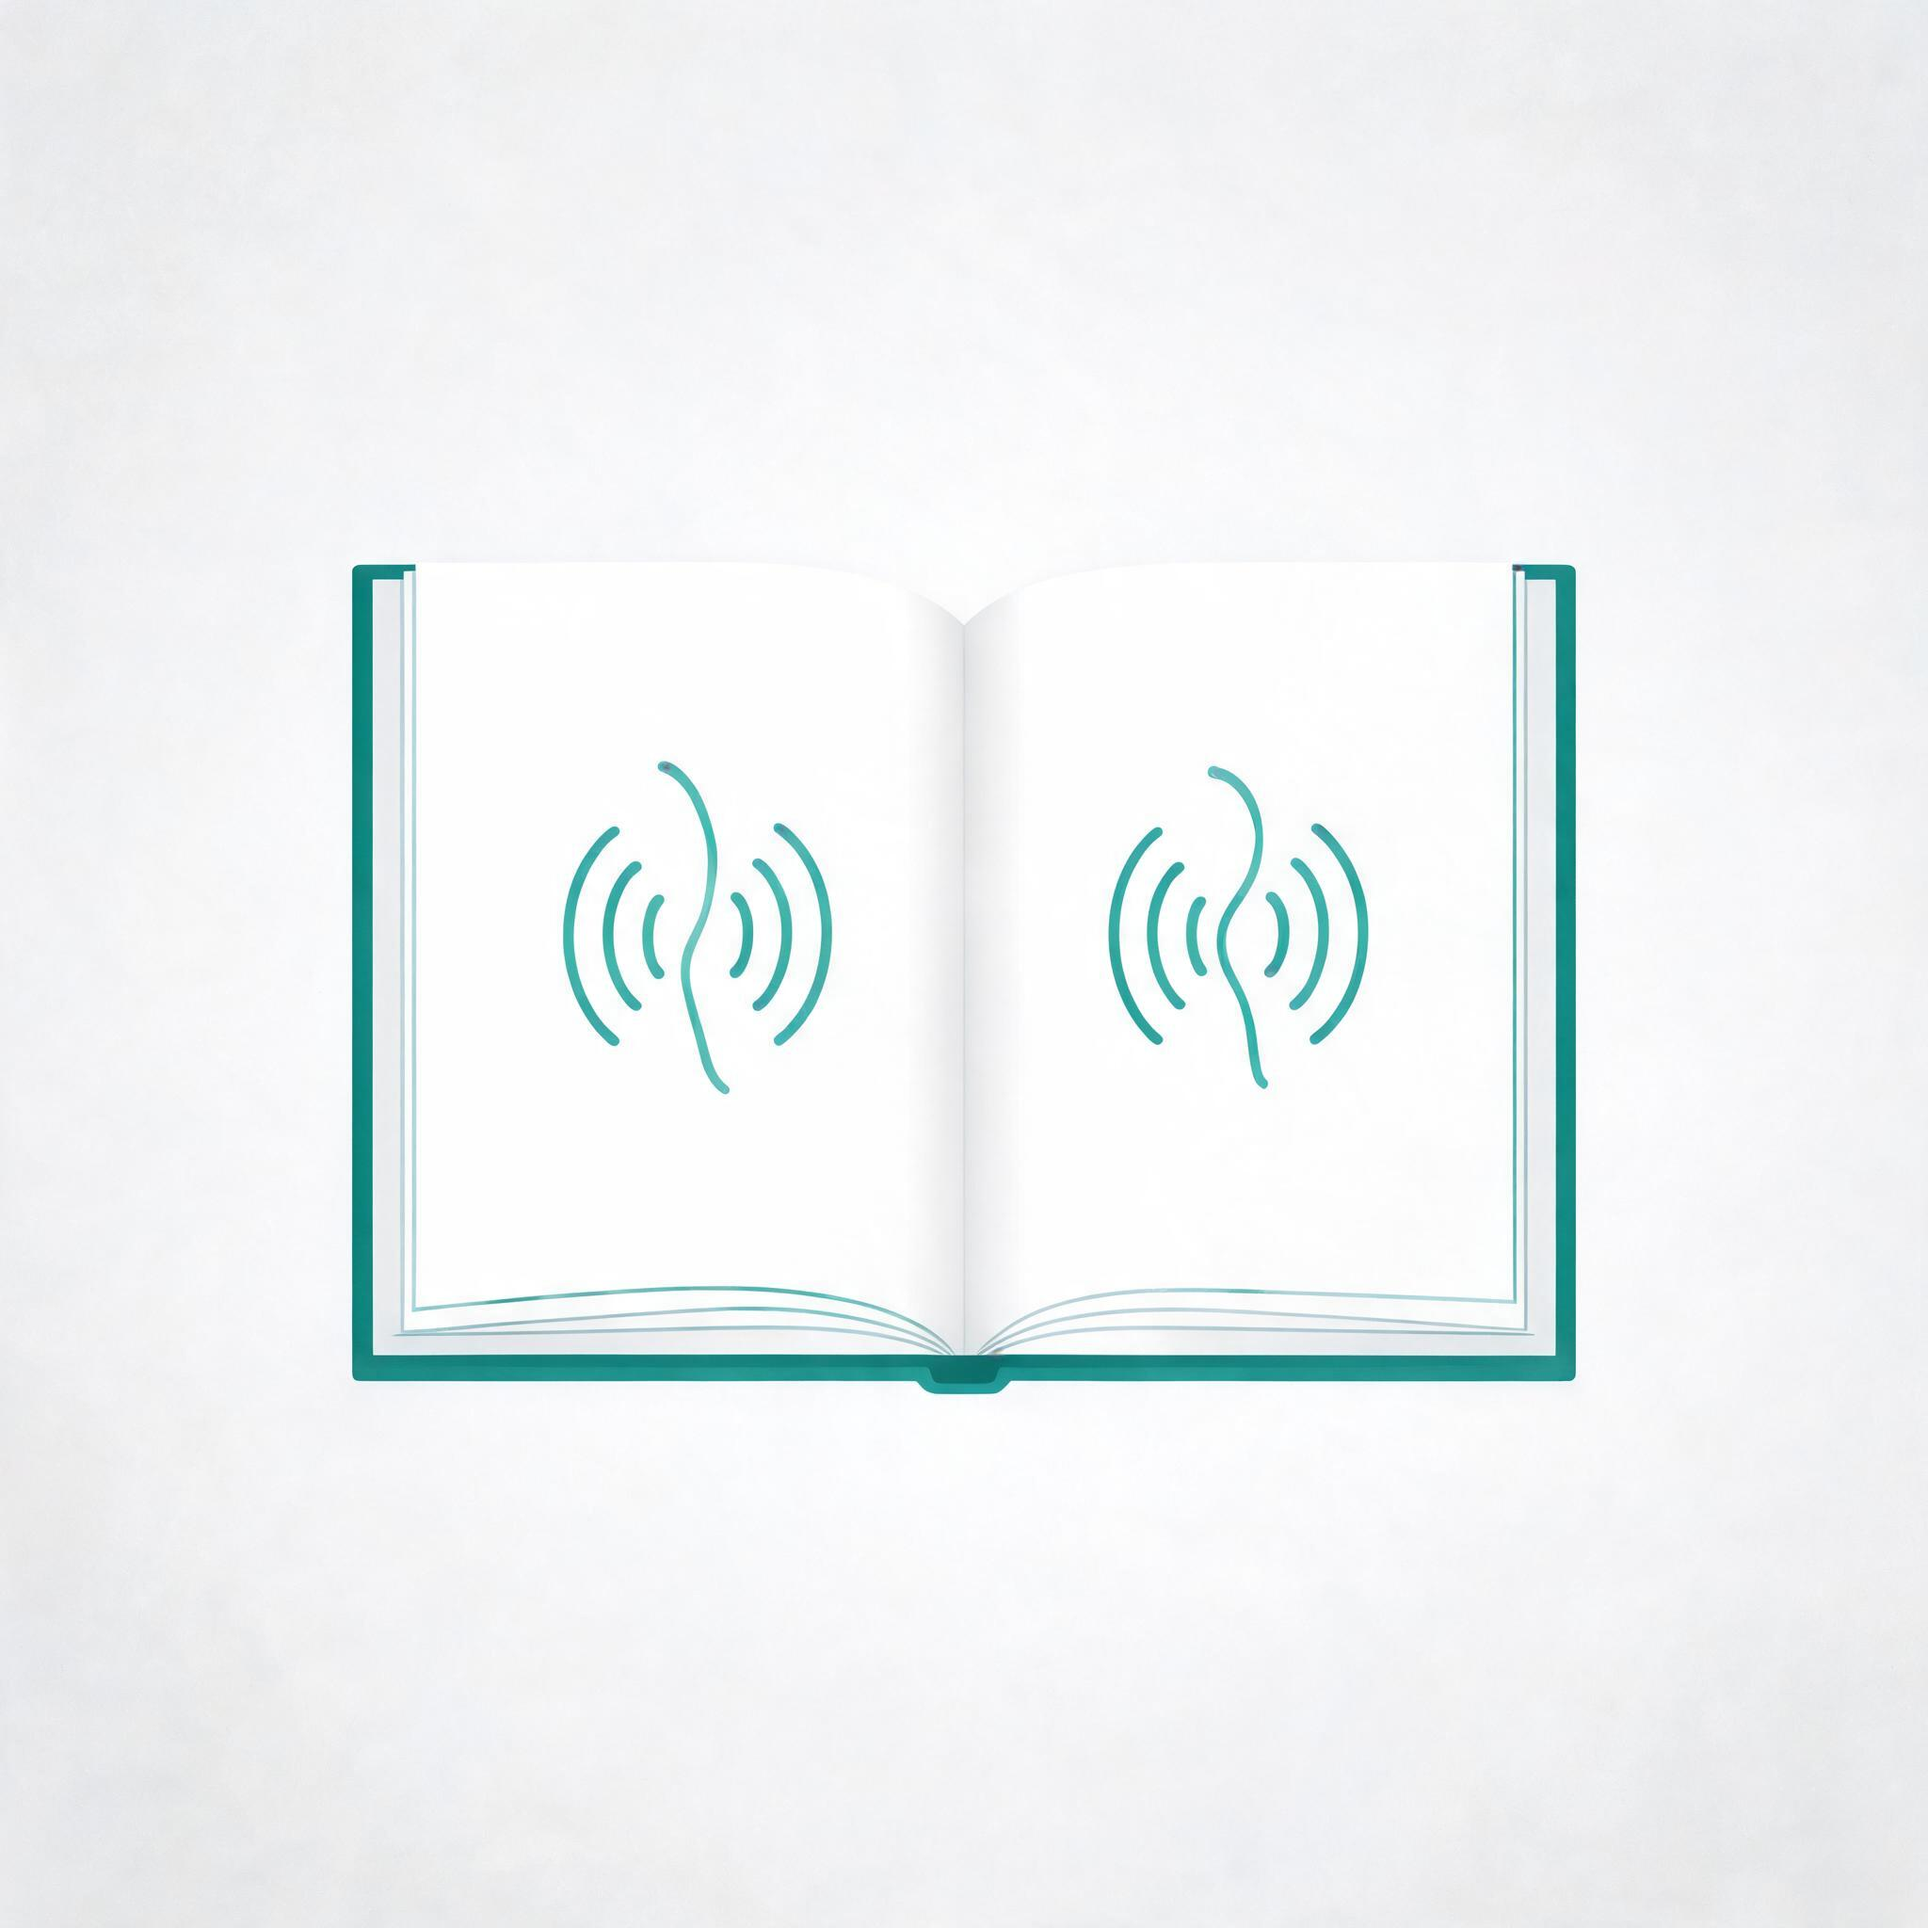
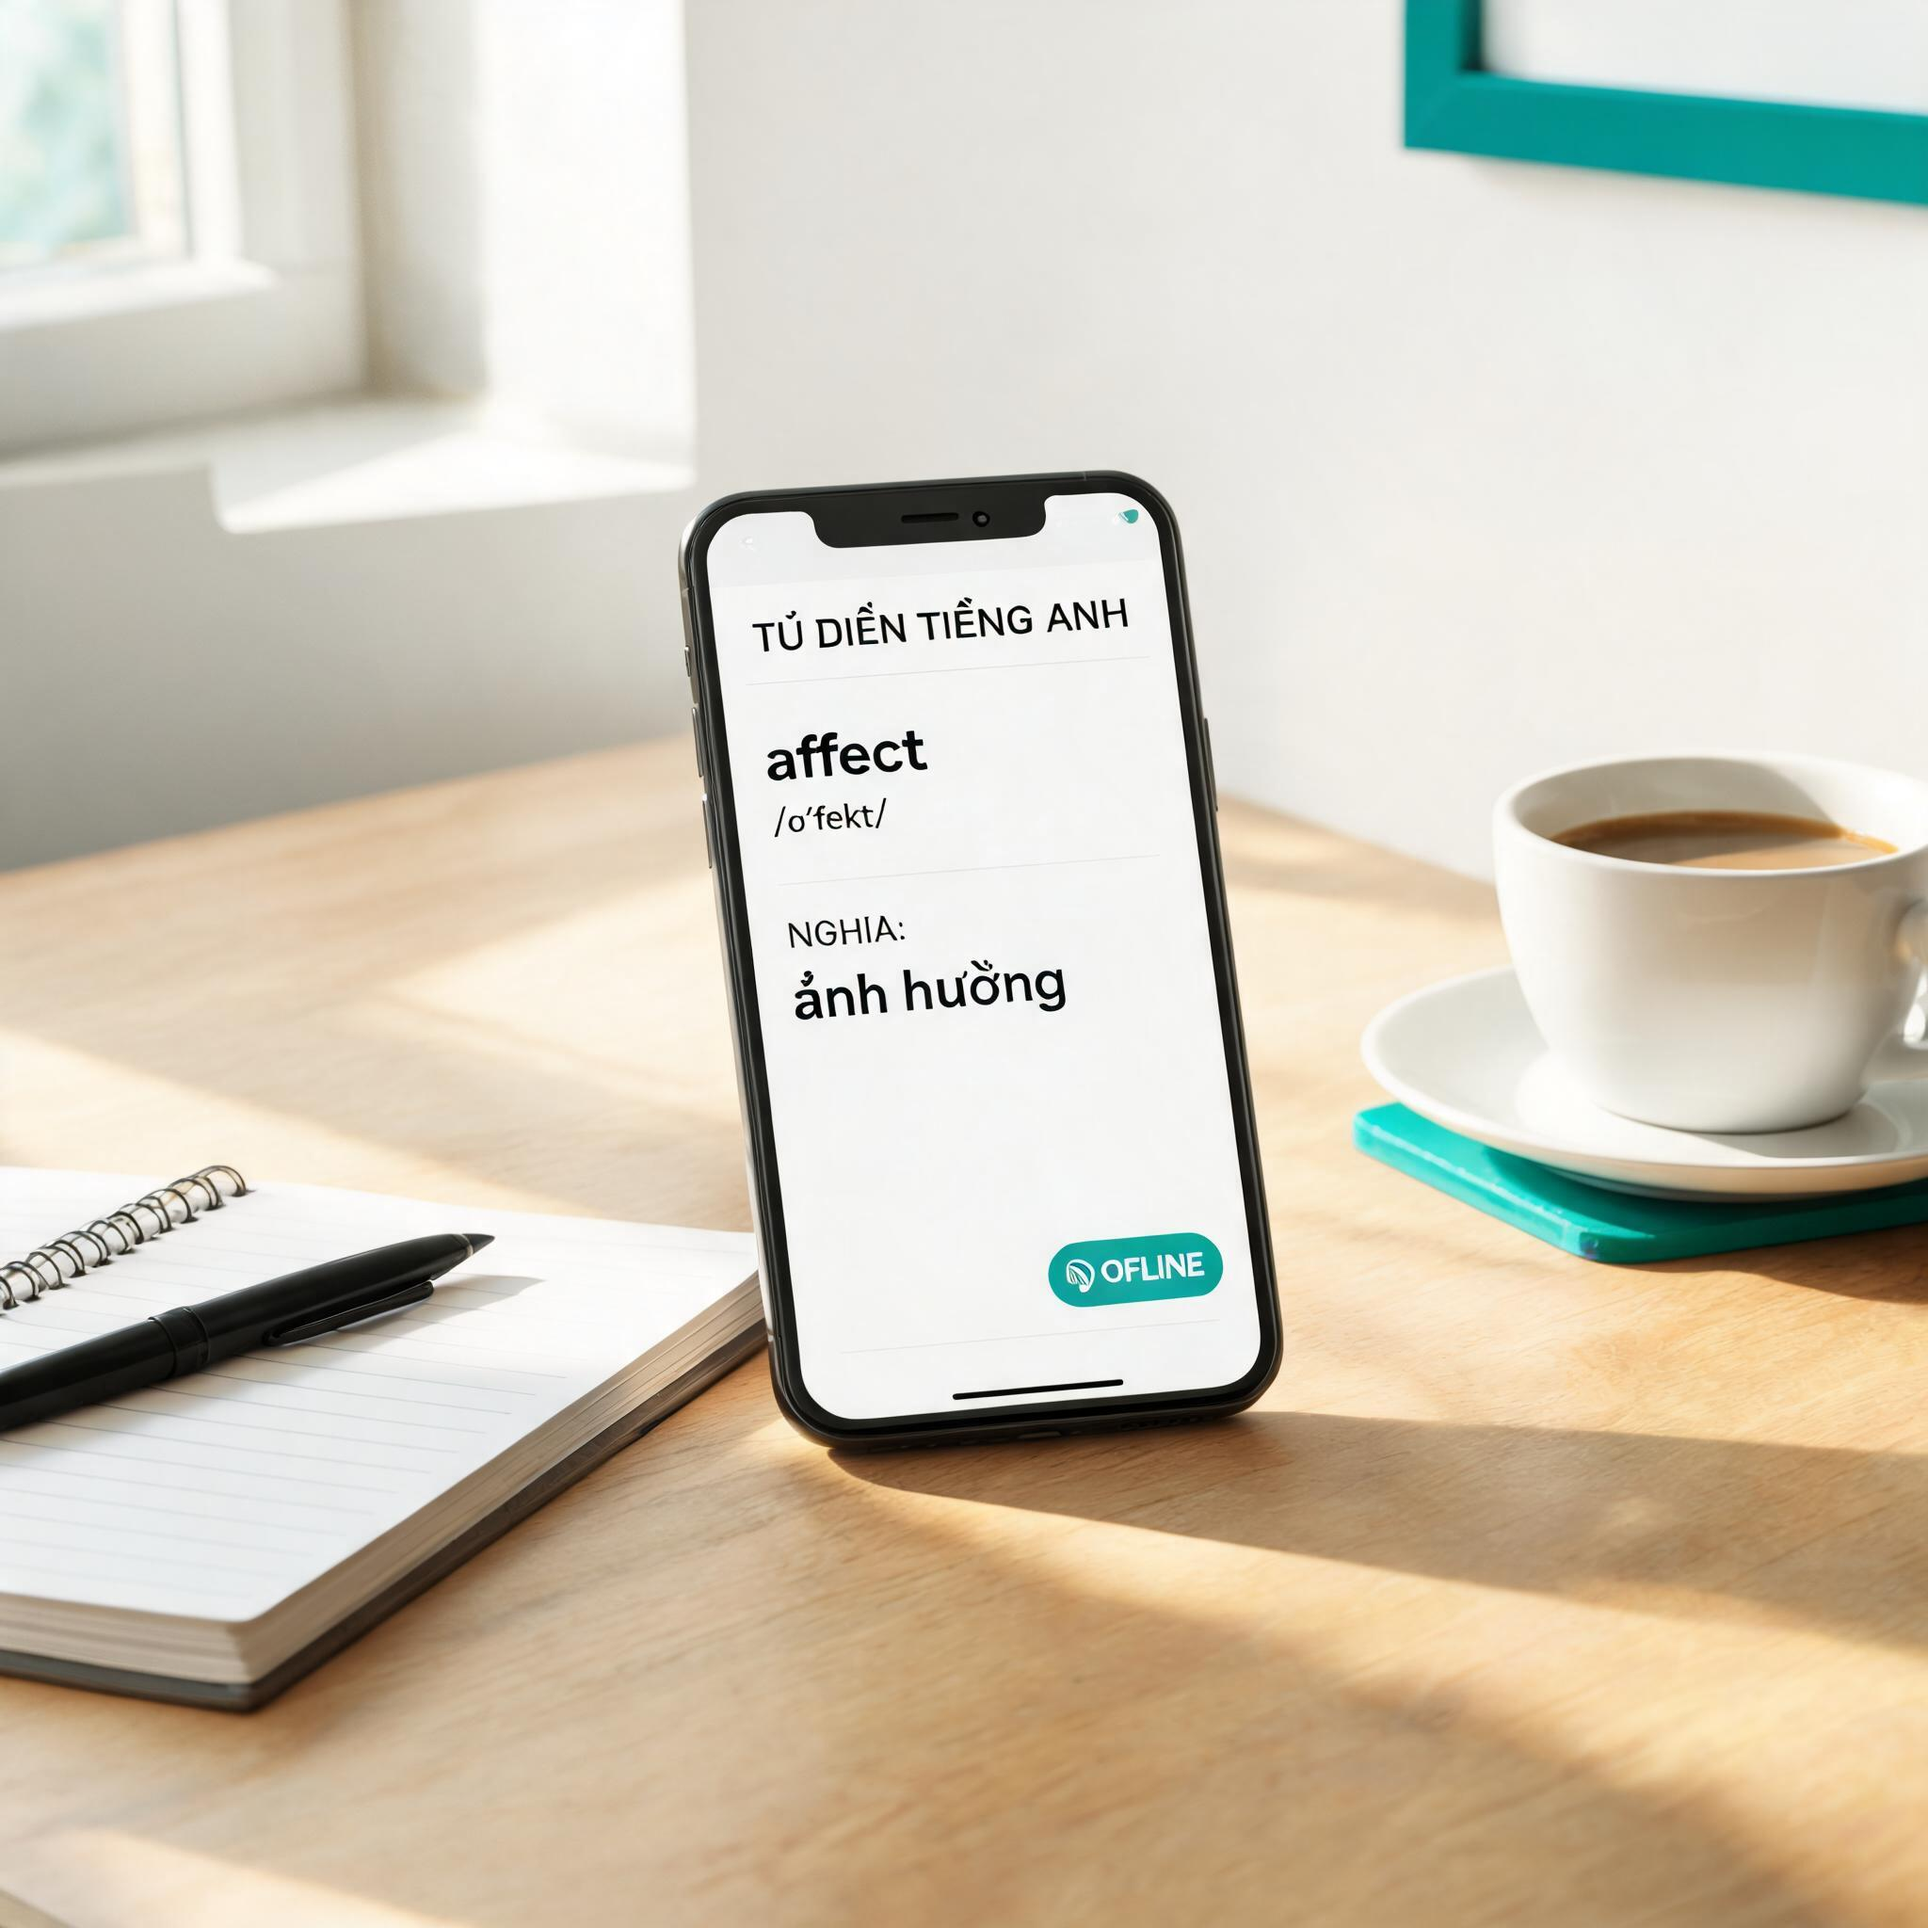
Image fix: hero cu the phone mockup /affect offline + mouth /θ/ mat cat cu the (thè lưỡi giữa răng, thổi hơi) — theo feedback trừu tượng

diff --git a/vi/phat-am/think/index.html b/vi/phat-am/think/index.html
@@ -58,9 +58,10 @@
     <button type="button" class="ipa-play" data-aud="/audio/us/think.m4a" aria-label="Nghe giọng Mỹ">🔊 Mỹ</button>
     <button type="button" class="ipa-play" data-aud="/audio/gb/think.m4a" aria-label="Nghe giọng Anh">🔊 Anh</button>
   </div>
-  <div style="margin:16px 0;background:#f9fafb;border:1px solid #e5e7eb;border-radius:12px;padding:16px;display:flex;gap:16px;align-items:center">
-      <div style="width:160px;flex-shrink:0"><svg width="160" height="110" viewBox="0 0 160 110" aria-labelledby="mouth-title" role="img"><title id="mouth-title">Sơ đồ miệng /θ/ — lưỡi giữa hai răng</title><ellipse cx="80" cy="55" rx="62" ry="46" fill="none" stroke="#e5e7eb" stroke-width="1.6"/><path d="M 50 70 Q 80 26 110 70" fill="none" stroke="#0f766e" stroke-width="2.6" stroke-linecap="round"/><circle cx="62" cy="66" r="3.5" fill="#0f766e"/><circle cx="98" cy="66" r="3.5" fill="#0f766e"/><path d="M 68 86 Q 80 94 92 86" fill="none" stroke="#6b7280" stroke-width="1.6" stroke-linecap="round"/><text x="80" y="18" text-anchor="middle" font-size="8" fill="#9ca3af" font-family="sans-serif">lưỡi chạm răng</text><text x="80" y="104" text-anchor="middle" font-size="7" fill="#9ca3af">SVG · không phụ thuộc mạng</text></svg></div>
-      <div style="flex:1"><div style="font-size:11px;font-weight:700;color:#0f766e;letter-spacing:0.06em">MẸO NHỚ · /θ/</div><div style="font-size:13px;color:#111110;margin-top:6px;line-height:1.5">Thè lưỡi nhẹ giữa răng, thổi hơi — không bật tiếng. Ngược với /t/ (đầu lưỡi chạm nướu).</div><div style="margin-top:8px;display:flex;gap:6px;flex-wrap:wrap"><span style="background:#fef2f2;color:#991b1b;font-size:10px;padding:4px 8px;border-radius:6px">✗ Đừng đọc /tɪŋk/</span><span style="background:#ecfdf5;color:#065f46;font-size:10px;padding:4px 8px;border-radius:6px">✓ think /θɪŋk/</span></div></div>
+  <figure style="margin:16px 0;background:#ffffff;border:1px solid #e5e7eb;border-radius:12px;overflow:hidden">
+      <img src="/vi/phat-am/think/mouth-th.jpg" srcset="/vi/phat-am/think/mouth-th-480.webp 480w" sizes="(max-width: 640px) 100vw, 480px" alt="Mặt cắt miệng phát âm /θ/ think — lưỡi thè nhẹ giữa hai răng, thổi hơi" width="480" height="480" loading="lazy" decoding="async" style="width:100%;height:auto;display:block">
+      <figcaption style="padding:10px 14px;background:#f9fafb;border-top:1px solid #e5e7eb;font-size:12px;color:#6b7280;line-height:1.6"><strong style="color:#0f766e">Cách làm:</strong> 1) Thè đầu lưỡi chạm nhẹ giữa răng trên & dưới → 2) Thổi hơi qua khe → 3) Không rung dây thanh. <span style="background:#fef2f2;color:#991b1b;padding:2px 6px;border-radius:4px;margin-left:6px">✗ Sai: /tɪŋk/ (lưỡi chạm nướu)</span> <span style="background:#ecfdf5;color:#065f46;padding:2px 6px;border-radius:4px">✓ Đúng: /θɪŋk/</span></figcaption>
+    </figure>
     </div>
   <audio id="ipa-player" preload="none"></audio>
   <script>(function(){var pl=document.getElementById('ipa-player');if(!pl)return;document.querySelectorAll('.ipa-play').forEach(function(b){b.addEventListener('click',function(){pl.src=b.getAttribute('data-aud');pl.play();});});})();</script>

diff --git a/vi/index.html b/vi/index.html
@@ -109,7 +109,7 @@
       <a class="btn-primary" href="/" style="text-decoration:none">🚀 Mở từ điển ngay</a>
       <a class="btn-secondary" href="/#about" style="text-decoration:none">Tính năng chi tiết</a>
     </div>
-    <figure style="margin:var(--sp-4) auto 0;max-width:640px"><img src="/vi/images/hero-vi.jpg" alt="Giao diện Dual Dictionary tra từ offline trên điện thoại và laptop" width="640" height="360" fetchpriority="high" decoding="async" style="width:100%;height:auto;border-radius:12px;border:1px solid var(--border);box-shadow:0 8px 24px rgba(0,0,0,0.08)"><figcaption style="font-size:12px;color:var(--text-2);margin-top:8px">Offline-first · PWA cài lên màn hình chính · Không quảng cáo</figcaption></figure>
+    <figure style="margin:var(--sp-4) auto 0;max-width:640px"><img src="/vi/images/hero-vi.jpg" alt="Giao diện Dual Dictionary tra từ offline trên điện thoại và laptop" width="640" height="640" fetchpriority="high" decoding="async" style="width:100%;height:auto;border-radius:12px;border:1px solid var(--border);box-shadow:0 8px 24px rgba(0,0,0,0.08)"><figcaption style="font-size:12px;color:var(--text-2);margin-top:8px">Offline-first · PWA cài lên màn hình chính · Không quảng cáo</figcaption></figure>
   </header>
 
   <section class="vi-section">
